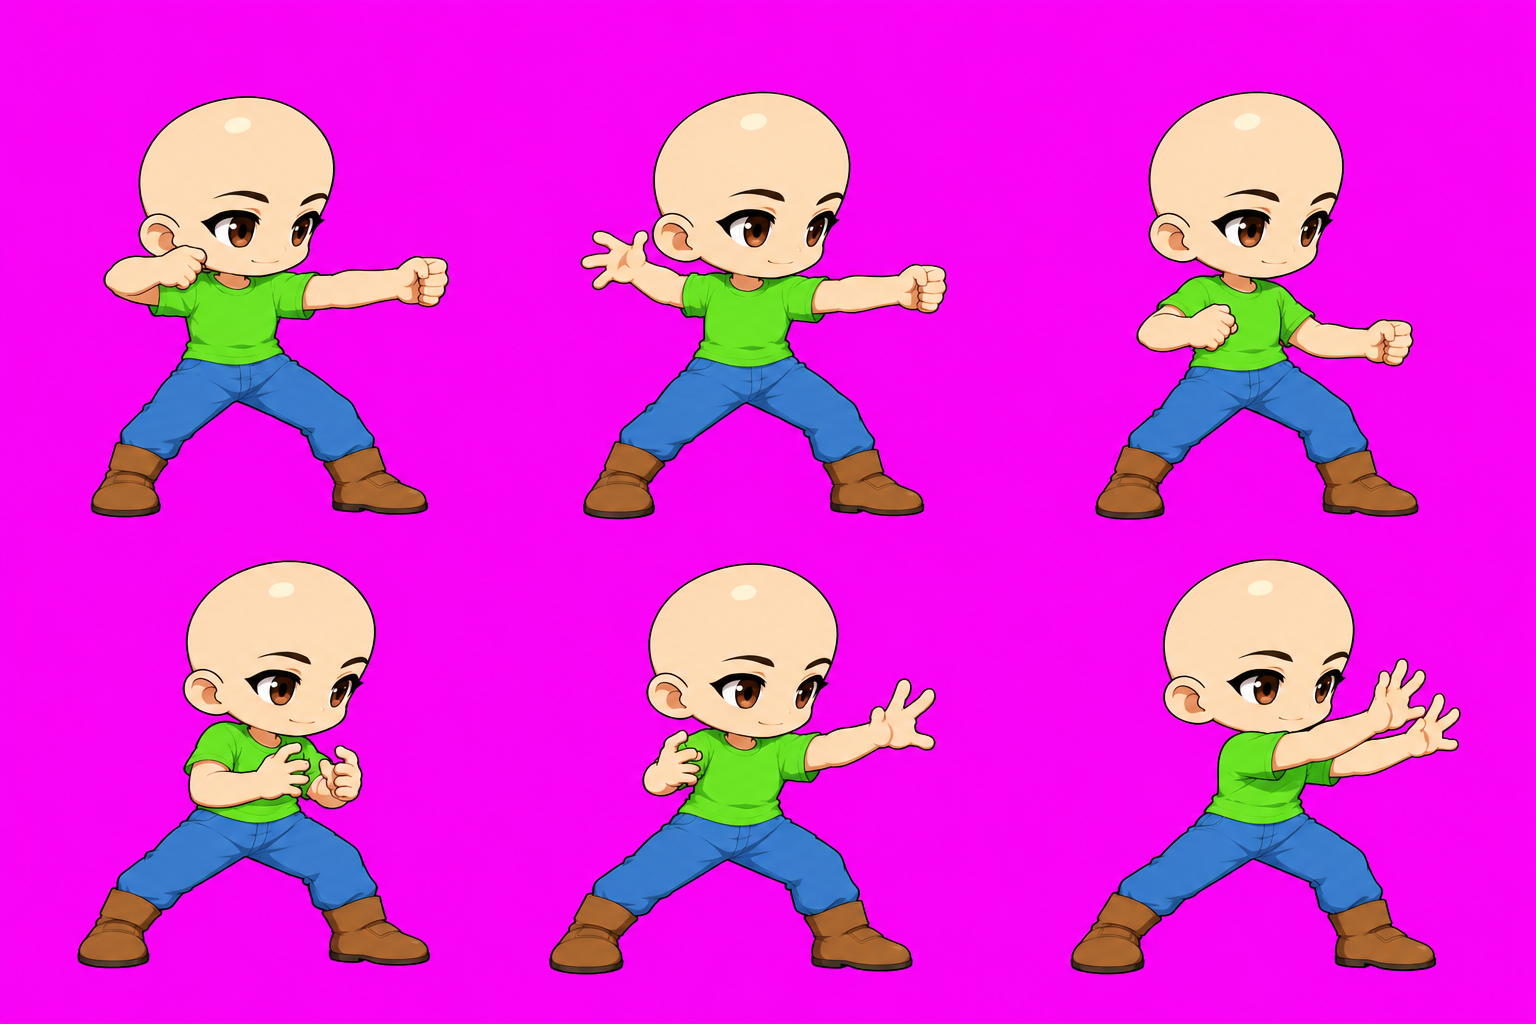
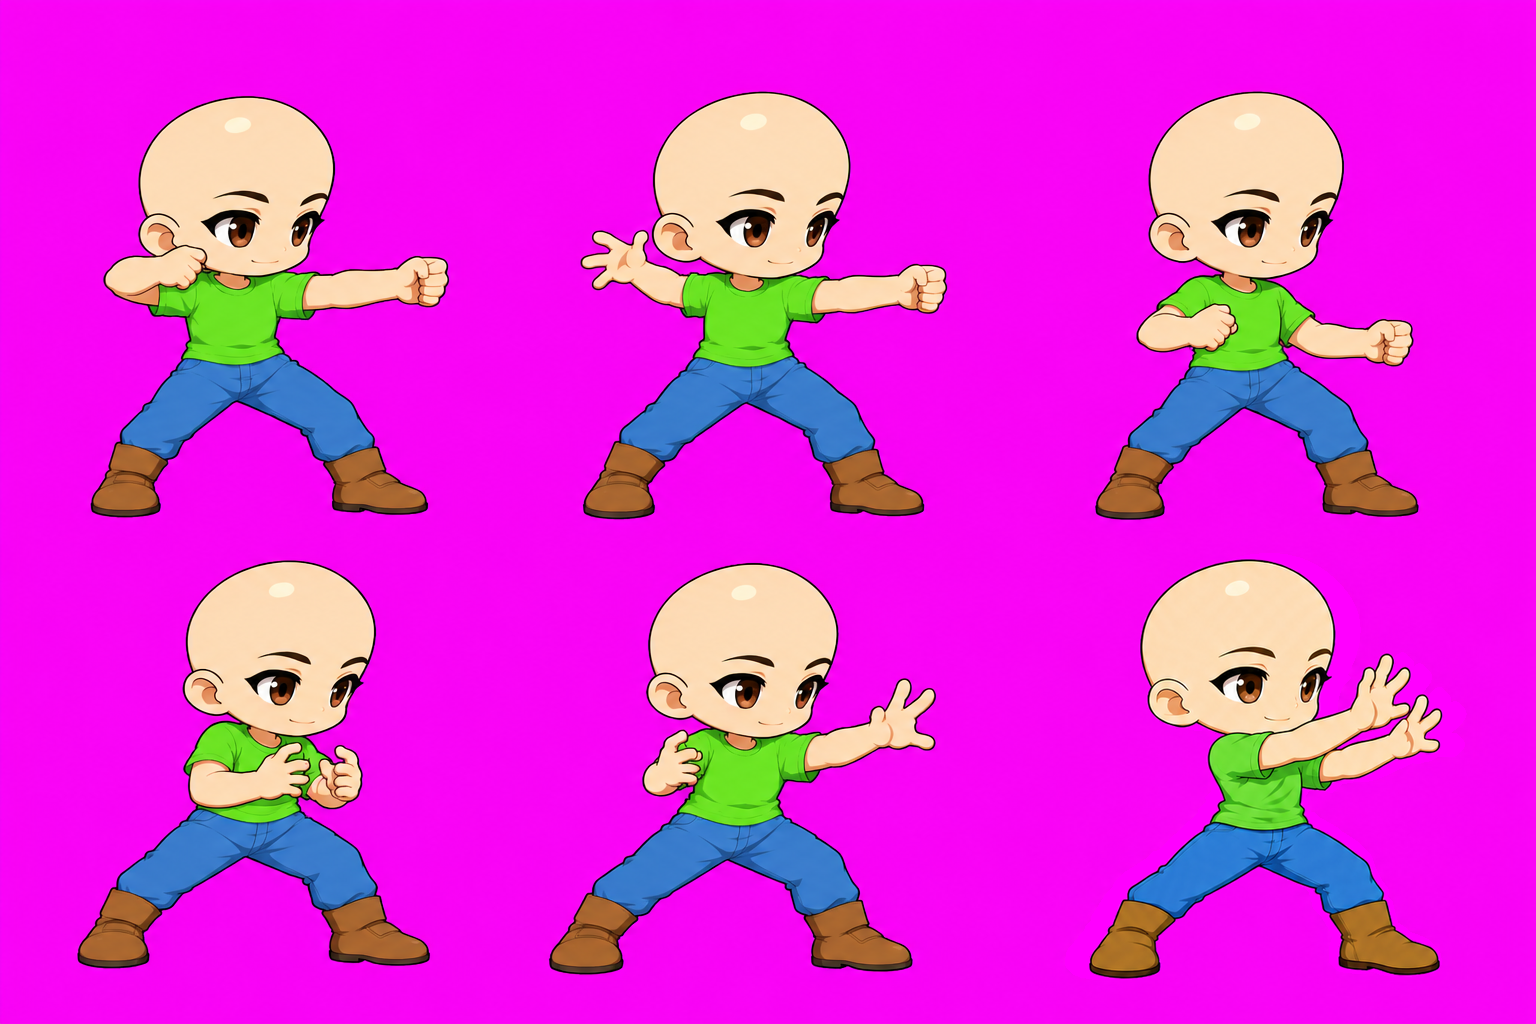
Base v3: the blink easier to catch; a size switch to preview bigger characters; the girl's last cast frame dressed alone
- The blink (David 31 Oct 11:55: hardly noticed): every 2-4 s (was 2.5-5), 160 ms (was 130), now and then twice
  in a row (MapleStory).
- ?size=1.12 (0.8-1.5): the new base drawn bigger in the world (its sprite, layers, anchors and blade line with it)
  — to show David sizes side by side; the default stays 1 until he picks.
- Her last cast figure redrawn dressed on its own (gpt/dressed_nosword/v3f/cast3_alone.png) and laid into the
  dressed sheet by the head (the sheet's copy had drawn her stance apart: the legs now fit, 0.3 % bare).

Claude-Session: https://claude.ai/code/session_01AdjxSzUCV4VRbquShPanH9

Changed region(s): [[0.6875, 0.5312, 0.9688, 0.9688]]

diff --git a/src/game/ActorView.ts b/src/game/ActorView.ts
@@ -216,6 +216,8 @@ const HEAD_FIT = [{ w: 1.3, b: 0.12, dx: 0 }, { w: 1.32, b: 0.12, dx: 0.04 }, { 
 
 /** The worn pieces over the body frame: pants, boots, shirt under the face and hair; the shirt again over the sword arm
  *  drawn over the hair; the sword in hand on top. */
+/** How long the eyes stay shut in a blink (ms). */
+const BLINK_MS = 160;
 const GEAR_DEPTH: Record<GearPiece, number> = { pants: 0.001, shoes: 0.0013, top: 0.0016, topo: 0.0085, sword: 0.009 };
 
 export class ActorView {
@@ -299,6 +301,7 @@ export class ActorView {
   private lookParts: { b: Phaser.GameObjects.Image; face: Phaser.GameObjects.Image; expr: Phaser.GameObjects.Image; eyes: Phaser.GameObjects.Image; gap: Phaser.GameObjects.Image; f: Phaser.GameObjects.Image; helm: Phaser.GameObjects.Image; over: Phaser.GameObjects.Sprite } | null = null;
   /** The next blink (scene ms): MapleStory's face blinks every few seconds. */
   private blinkAt = 0;
+  private blinkTwice = false;
   /** Worn gear (equipment): the clothes and the sword drawn on every frame of the base character. */
   private gearW: GearLook | null = null;
   private gearParts: Partial<Record<GearPiece, Phaser.GameObjects.Sprite>> = {};
@@ -617,8 +620,9 @@ export class ActorView {
     const xs = NAKED_LOOK[nk.g]?.expr ?? [], now = this.scene.time.now;
     let ex = nk.expr && xs.includes(nk.expr) ? nk.expr : null;
     if (!ex && xs.includes('blink')) {
-      if (!this.blinkAt) this.blinkAt = now + 2500 + Math.random() * 2500;
-      if (now >= this.blinkAt + 130) this.blinkAt = now + 2500 + Math.random() * 2500;
+      // (MapleStory: every 2–4 s, about a sixth of a second; now and then twice in a row — easy to catch, never busy)
+      if (!this.blinkAt) this.blinkAt = now + 1200 + Math.random() * 1800;
+      if (now >= this.blinkAt + BLINK_MS) this.blinkAt = Math.random() < 0.3 && !this.blinkTwice ? (this.blinkTwice = true, now + 110) : (this.blinkTwice = false, now + 2000 + Math.random() * 2000);
       else if (now >= this.blinkAt) ex = 'blink';
     }
     const exk = ex && this.scene.textures.exists(exprKey(nk.g, ex)) ? exprKey(nk.g, ex) : null;

diff --git a/src/game/Body.ts b/src/game/Body.ts
@@ -390,9 +390,13 @@ function nakedPose(cls: string, dir: Dir, g: 'male' | 'female', q: PoseQuery): P
   const swing = q.k === 'skill' && q.id === 'warrior_basic';
   // MapleStory's faces: a wince when hit (thrown, lying, getting up — its first half), the eyes shut when defeated
   const expr = q.k === 'hurt' || q.k === 'stunned' || q.k === 'launched' || q.k === 'down' || ((q.k === 'getup' || q.k === 'quickrise') && q.p < 0.5) ? 'hurt' : q.k === 'death' ? 'blink' : undefined;
-  return { ...f, key, frame, wkey: `${key}-w`, blade, bladeBehind: false, hair: null, head: null, naked: { g, anim, frame, hx, hy, ha, bare, swing, expr },
-    anchor: f.anchor ? f.anchor.map((v, i) => (i % 2 === 0 ? v + hx * fx * SHEET_SCALE : v + (hy + (i === 1 ? NAKED_HEAD_DROP : 0)) * SHEET_SCALE)) : null };
+  const Z = BASE_SIZE; // (the new base's size in the world: every length of the frame grows with it)
+  return { ...f, key, frame, wkey: `${key}-w`, blade: blade ? blade.map((v) => v * Z) : null, bladeBehind: false, hair: null, head: null, naked: { g, anim, frame, hx, hy, ha, bare, swing, expr },
+    scale: f.scale * Z, anchor: f.anchor ? f.anchor.map((v, i) => Z * (i % 2 === 0 ? v + hx * fx * SHEET_SCALE : v + (hy + (i === 1 ? NAKED_HEAD_DROP : 0)) * SHEET_SCALE)) : null };
 }
+/** The new base's size in the world (1 = as drawn for the old Beginner's cell). Previewed with ?size=1.12 (David 31 Oct
+ *  11:55: "maybe a little bigger, pleasant on a screen with depth" — his pick decides it). */
+export const BASE_SIZE = ((): number => { const v = typeof location !== 'undefined' ? Number(new URLSearchParams(location.search).get('size')) : NaN; return Number.isFinite(v) && v >= 0.8 && v <= 1.5 ? v : 1; })();
 /** The sword's afterimage between two frames of a regular attack's swing (MapleStory: a thin trail of light behind the
  *  blade, nothing else): the outer part of the band the blade sweeps, as its outer edge (the tip's path) and inner edge,
  *  cell px from the feet, facing right. Overhead (swing1): over and down; rising (swing3): under and up; the level cut
